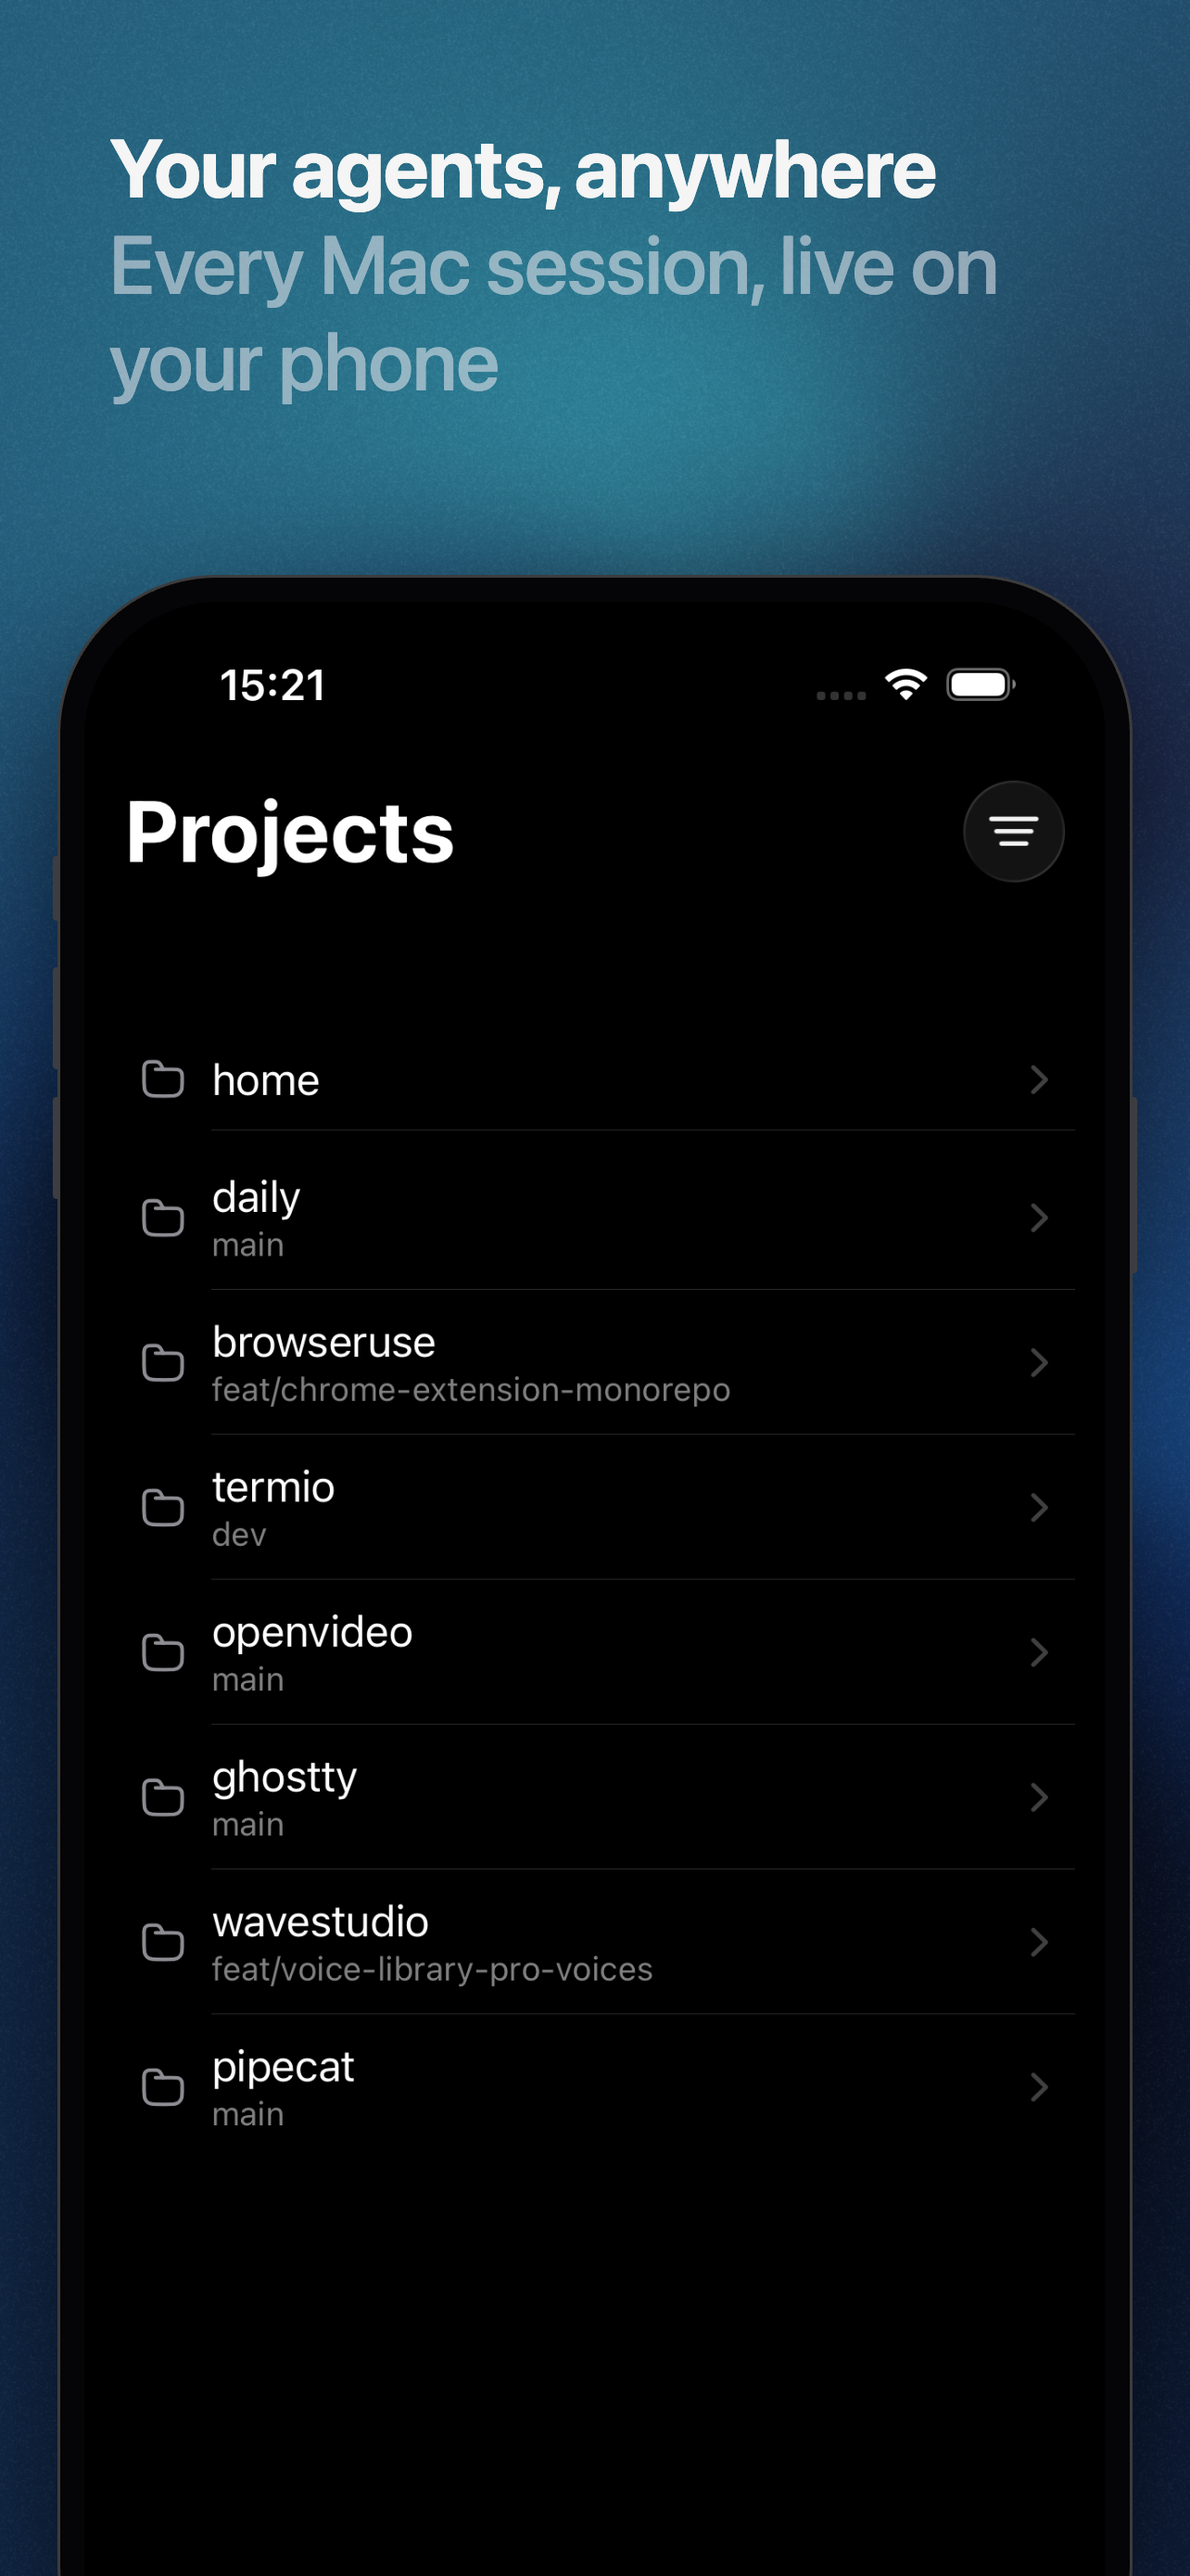
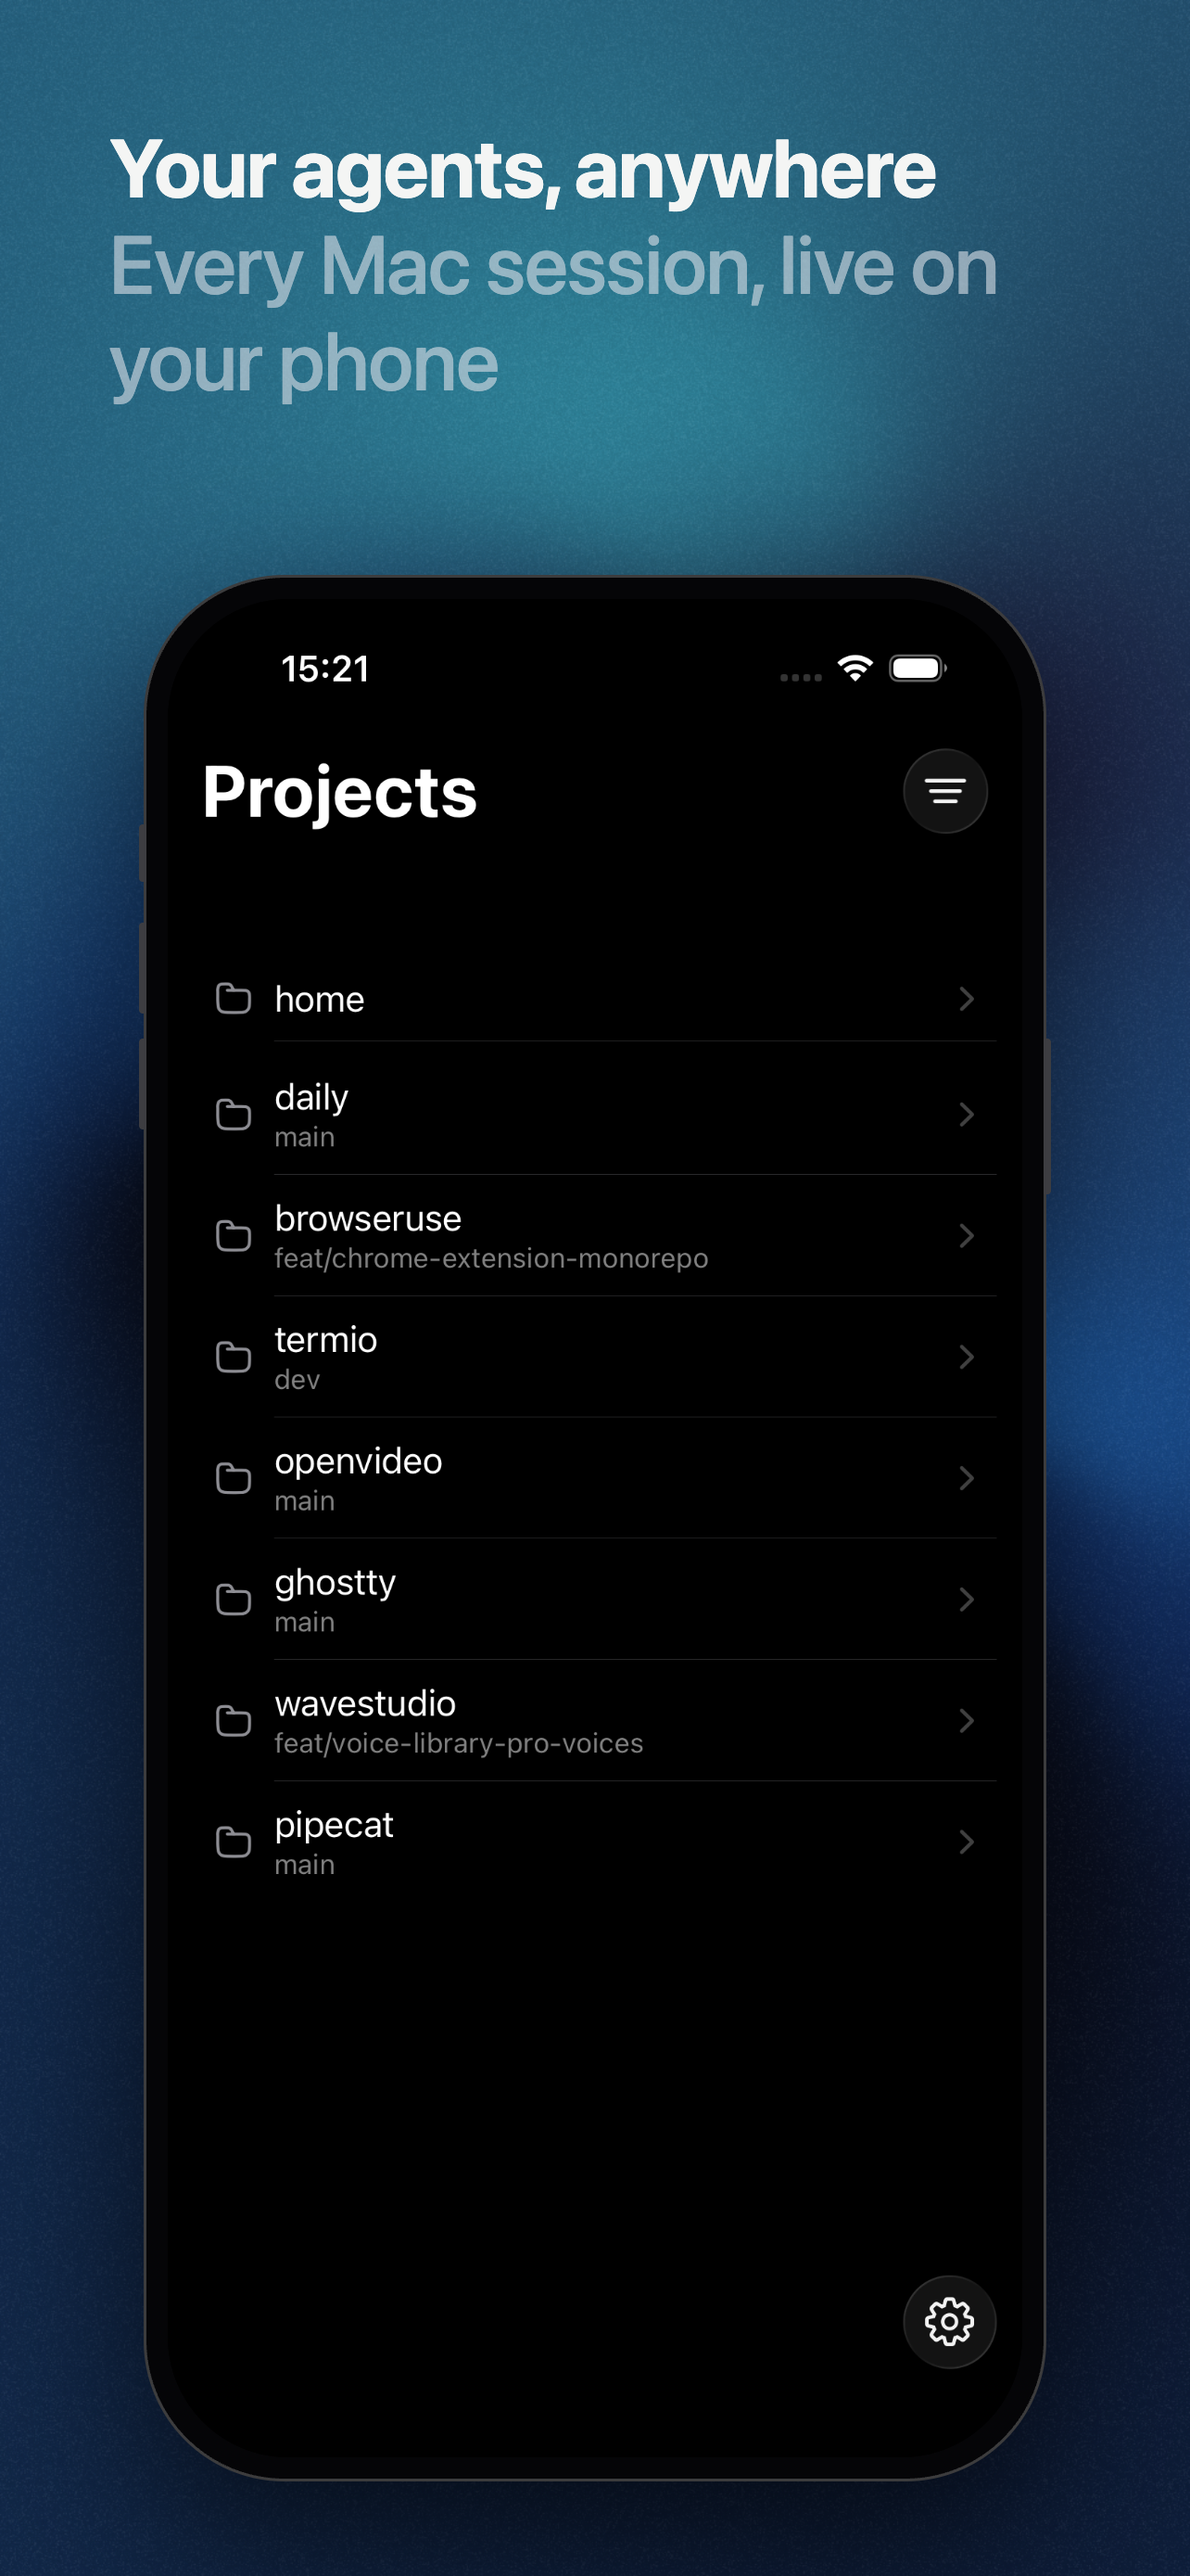
docs(maketing): six-panel App Store set at true capture aspect + keyboard-shot harness
Panel device well is now the exact 1206x2622 capture aspect (922x2004)
so screenshots show edge to edge uncropped; codex panel replaced by amp
and pi keyboard panels. Harness: -open-project pushes a live roster
project for simctl shots, ROSTER_URL falls back to a host-side file
(TEST_RUNNER_ vars don't reliably reach the runner), codex captured
with the keyboard up.

diff --git a/ios/UITests/MarketingScreensTests.swift b/ios/UITests/MarketingScreensTests.swift
@@ -39,8 +39,46 @@ final class MarketingScreensTests: XCTestCase {
         back.tap()
     }
 
+    /// Keyboard-up shots of a few named agent sessions — the terminal opens
+    /// with the keyboard presented, so the shot is straight after the push.
+    func testAgentKeyboardShots() throws {
+        let fileURL = (try? String(contentsOfFile: "/tmp/marketing-roster-url", encoding: .utf8))?
+            .trimmingCharacters(in: .whitespacesAndNewlines)
+        guard let rosterURL = ProcessInfo.processInfo.environment["ROSTER_URL"] ?? fileURL,
+              !rosterURL.isEmpty
+        else {
+            throw XCTSkip("ROSTER_URL not set — marketing capture is manual-only")
+        }
+        let app = XCUIApplication()
+        app.launchArguments = ["-roster-url", rosterURL]
+        app.launch()
+
+        let shots: [(project: String, row: String, slug: String)] = [
+            ("home", "Terminal", "terminal"),
+        ]
+        for shot in shots {
+            let project = app.staticTexts[shot.project].firstMatch
+            XCTAssertTrue(project.waitForExistence(timeout: 10), "no project \(shot.project)")
+            project.tap()
+            let row = app.staticTexts[shot.row].firstMatch
+            XCTAssertTrue(row.waitForExistence(timeout: 8), "no session row \(shot.row)")
+            row.tap()
+            let back = app.buttons["terminal.back"]
+            XCTAssertTrue(back.waitForExistence(timeout: 8))
+            shoot(app, "\(shot.slug)-keyboard")
+            back.tap()
+            let home = app.buttons["project.back"].firstMatch
+            if home.waitForExistence(timeout: 3) { home.tap() }
+        }
+    }
+
     func testMarketingScreens() throws {
-        guard let rosterURL = ProcessInfo.processInfo.environment["ROSTER_URL"],
+        // Runner env when it propagates, else a host-side file — simulator
+        // processes share the host filesystem, and TEST_RUNNER_ vars don't
+        // reliably reach the UI-test runner from xcodebuild.
+        let fileURL = (try? String(contentsOfFile: "/tmp/marketing-roster-url", encoding: .utf8))?
+            .trimmingCharacters(in: .whitespacesAndNewlines)
+        guard let rosterURL = ProcessInfo.processInfo.environment["ROSTER_URL"] ?? fileURL,
               !rosterURL.isEmpty
         else {
             throw XCTSkip("ROSTER_URL not set — marketing capture is manual-only")
@@ -59,7 +97,7 @@ final class MarketingScreensTests: XCTestCase {
         shoot(app, "sessions")
 
         captureSession(app, row: "Claude Code", slug: "claude", keyboardShot: true)
-        captureSession(app, row: "Codex", slug: "codex", keyboardShot: false)
+        captureSession(app, row: "Codex", slug: "codex", keyboardShot: true)
         captureSession(app, row: "Terminal", slug: "terminal", keyboardShot: false)
     }
 }

diff --git a/docs/maketing/appstore/panel-template.html b/docs/maketing/appstore/panel-template.html
@@ -30,26 +30,27 @@
     color: rgba(214, 220, 228, 0.62);
     max-width: 1040px;
   }
-  /* Identical geometry on every panel: the screen well is a fixed 2260px
-     window and the source screenshot covers it from the top, so mixed
-     source resolutions can never change the device's size or position. */
+  /* Identical geometry on every panel: the screen well is a fixed 922×2004
+     window — the exact 1206×2622 capture aspect, so the full screenshot
+     shows edge to edge with no crop, and the whole phone fits the canvas:
+     620 top + 2056 device + 102 margin. */
   .device {
     position: absolute;
     left: 50%;
     transform: translateX(-50%);
     top: 620px;
-    width: 1160px;
+    width: 974px;
     background: #050507;
-    border-radius: 172px;
-    padding: 26px;
+    border-radius: 152px;
+    padding: 23px;
     border: 3px solid rgba(255, 255, 255, 0.22);
     box-shadow: 0 70px 160px rgba(0, 0, 0, 0.55);
   }
   .screen {
-    border-radius: 146px;
+    border-radius: 130px;
     overflow: hidden;
     background: #000;
-    height: 2260px;
+    height: 2004px;
   }
   .screen img {
     display: block;
@@ -62,14 +63,14 @@
     position: absolute; right: -8px; width: 8px; border-radius: 0 4px 4px 0;
     background: #3d3d41;
   }
-  .btn.power { top: 560px; height: 190px; }
+  .btn.power { top: 497px; height: 168px; }
   .btnl {
     position: absolute; left: -8px; width: 8px; border-radius: 4px 0 0 4px;
     background: #3d3d41;
   }
-  .btnl.vol1 { top: 420px; height: 110px; }
-  .btnl.vol2 { top: 560px; height: 110px; }
-  .btnl.action { top: 300px; height: 70px; }
+  .btnl.vol1 { top: 372px; height: 98px; }
+  .btnl.vol2 { top: 497px; height: 98px; }
+  .btnl.action { top: 266px; height: 62px; }
 </style>
 </head>
 <body>

diff --git a/ios/Sources/AppDelegate.swift b/ios/Sources/AppDelegate.swift
@@ -65,6 +65,20 @@ final class AppDelegate: UIResponder, UIApplicationDelegate {
             return true
         }
 
+        // `-open-project <name>`: push a live project's page once the roster
+        // delivers it — the live-data counterpart of `-demo project`, so
+        // simctl runs can screenshot the second home level against the real
+        // companion server.
+        if let name = Self.argument("-open-project", in: args) {
+            var ticks = 0
+            Timer.scheduledTimer(withTimeInterval: 0.5, repeats: true) { timer in
+                MainActor.assumeIsolated {
+                    ticks += 1
+                    if root.openProjectPage(named: name) || ticks > 20 { timer.invalidate() }
+                }
+            }
+        }
+
         if let flagIndex = args.firstIndex(of: "-demo"), args.indices.contains(flagIndex + 1) {
             let mode = args[flagIndex + 1]
             DispatchQueue.main.asyncAfter(deadline: .now() + 0.5) {

diff --git a/ios/Sources/RootContainerViewController.swift b/ios/Sources/RootContainerViewController.swift
@@ -207,6 +207,18 @@ final class RootContainerViewController: UIViewController {
         )
     }
 
+    /// `-open-project <name>`: same, but for a live roster project once it
+    /// arrives. Returns false while the project isn't in the roster yet.
+    func openProjectPage(named name: String) -> Bool {
+        loadViewIfNeeded()
+        guard let project = store.projects.first(where: { $0.name == name }) else { return false }
+        homeNav.pushViewController(
+            ProjectDetailViewController(store: store, project: project),
+            animated: false
+        )
+        return true
+    }
+
     /// Repaint the current-session pill on whichever home screens are up.
     private func refreshHomeLists() {
         for screen in homeNav.viewControllers {
